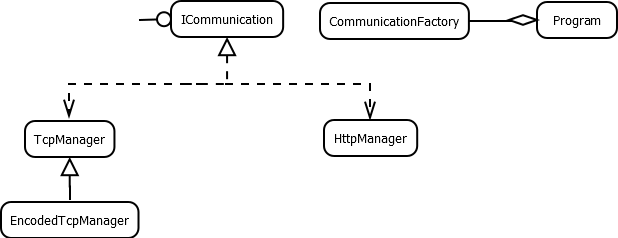
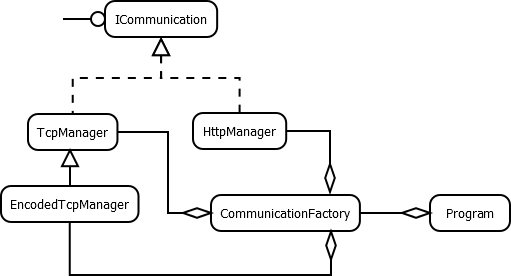
Second commit

diff --git a/ProtoType/Program/EncodedTcpManager .cs b/ProtoType/Program/EncodedTcpManager .cs
@@ -1,6 +1,8 @@
 
 // Send Encoded messages using TCP
 
+using System.Diagnostics;
+
 namespace SE_ProtoType
 {
     public class EncodedTcpManager : TcpManager
@@ -9,26 +11,26 @@ namespace SE_ProtoType
         public override void Send(string message, string address)
         {
             string encodedMessage = Encode(message);
-            Console.WriteLine("Sending Decoded Message");
+            Debug.WriteLine("Sending " + message);
             SendCount++;
         }
 
         public override string Receive(string message)
         {
             string decodedMessage = Decode(message);
-            Console.WriteLine("Recived Decoded Message");
+            Debug.WriteLine("Recived " + message);
             ReceiveCount++;
             return decodedMessage;
         }
 
         string Encode(string message)
         {
-            return "EncodedMessage";
+            return "EncodedMessage"; // will update soon
         }
 
         string Decode(string message)
         {
-            return "DecodedMessage";
+            return "DecodedMessage"; // will update soon
         }
     }
 }

diff --git a/ProtoType/Program/CommunicationFactory.cs b/ProtoType/Program/CommunicationFactory.cs
@@ -1,4 +1,5 @@
 using SE_ProtoType;
+using System.Diagnostics;
 
 // Selects user preffered Communication Channel 
 
@@ -6,9 +7,8 @@ namespace Communication
 {
     public class CommunicationFactory
     {
-        public ICommunication GetPersistenceManager()
+        public ICommunication CreateCommunicator(int choice)
         {
-            int choice = GetCommunicationChoice();
 
             if (choice == 1)
                 return new TcpManager();
@@ -20,17 +20,7 @@ namespace Communication
                 return new EncodedTcpManager();
 
             else
-                return new TcpManager();
-        }
-
-        int GetCommunicationChoice()
-        {
-            Console.WriteLine("Choose Communication to use (Default TCP)" +
-                  "1.Tcp" +
-                  "2.Http" +
-                  "3.EncodedTcp");
-
-            return Convert.ToInt32(Console.ReadLine());
+                return new TcpManager(); // Defaulty return TcpManager object to avoid Exception
         }
     }
 }

diff --git a/ProtoType/SE_ProtoType/Program.cs b/ProtoType/SE_ProtoType/Program.cs
@@ -1,5 +1,6 @@
 using Communication;
 using SE_ProtoType;
+using System.Diagnostics;
 
 // Program which drives everything
 
@@ -12,7 +13,14 @@ namespace Executive
         {
             // Using Factory
             CommunicationFactory factory = new CommunicationFactory();
-            ICommunication communication = factory.GetPersistenceManager();
+
+            Console.WriteLine("Choose Communication to use (Default TCP)" +
+                            " 1.Tcp" +
+                            " 2.Http" +
+                            " 3.EncodedTcp");
+            int choice = Convert.ToInt32(Console.ReadLine()); // Choice of Communication
+
+            ICommunication communication = factory.CreateCommunicator(choice);
             communication.Send("Hello", "123");
             communication.Receive("");
             Console.WriteLine("Send Count = " + communication.SendCount + "\n");

diff --git a/ProtoType/Program/HttpManager.cs b/ProtoType/Program/HttpManager.cs
@@ -1,6 +1,8 @@
 
 // Send Message using HttpManager
 
+using System.Diagnostics;
+
 namespace SE_ProtoType
 {
     public class HttpManager : ICommunication
@@ -33,13 +35,13 @@ namespace SE_ProtoType
 
         public virtual void Send(string message, string address)
         {
-            Console.WriteLine("Message sending using Http...\n");
+            Debug.WriteLine("Message sending using Http...\n");
             SendCount++;
         }
 
         public virtual string Receive(string message)
         {
-            Console.WriteLine("Message Receiving using Http...\n");
+            Debug.WriteLine("Message Receiving using Http...\n");
             ReceiveCount++;
             return message;
         }

diff --git a/ProtoType/Program/TcpManager.cs b/ProtoType/Program/TcpManager.cs
@@ -1,6 +1,8 @@
 
 // Send Message using TCP
 
+using System.Diagnostics;
+
 namespace SE_ProtoType
 {
     public class TcpManager : ICommunication
@@ -33,13 +35,13 @@ namespace SE_ProtoType
 
         public virtual void Send(string message, string address)
         {
-            Console.WriteLine("Message sending using TCP...\n");
+            Debug.WriteLine("Message sending using TCP...\n");
             SendCount++;
         }
 
         public virtual string Receive(string message)
         {
-            Console.WriteLine("Message Received using TCP...\n");
+            Debug.WriteLine("Message Received using TCP...\n");
             ReceiveCount++;
             return message;
         }
